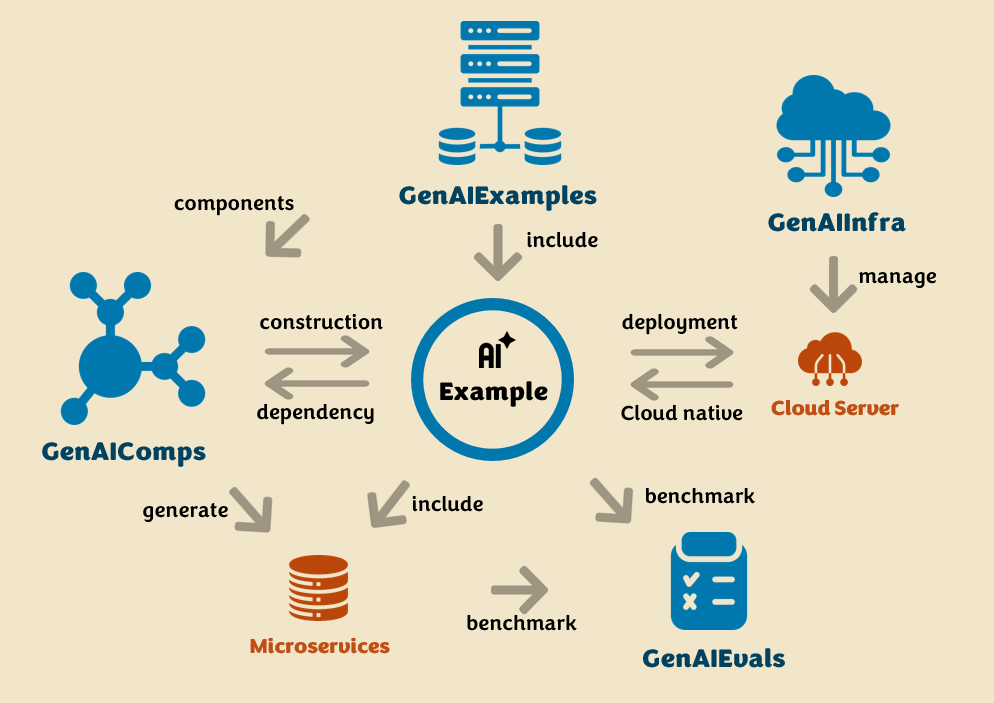
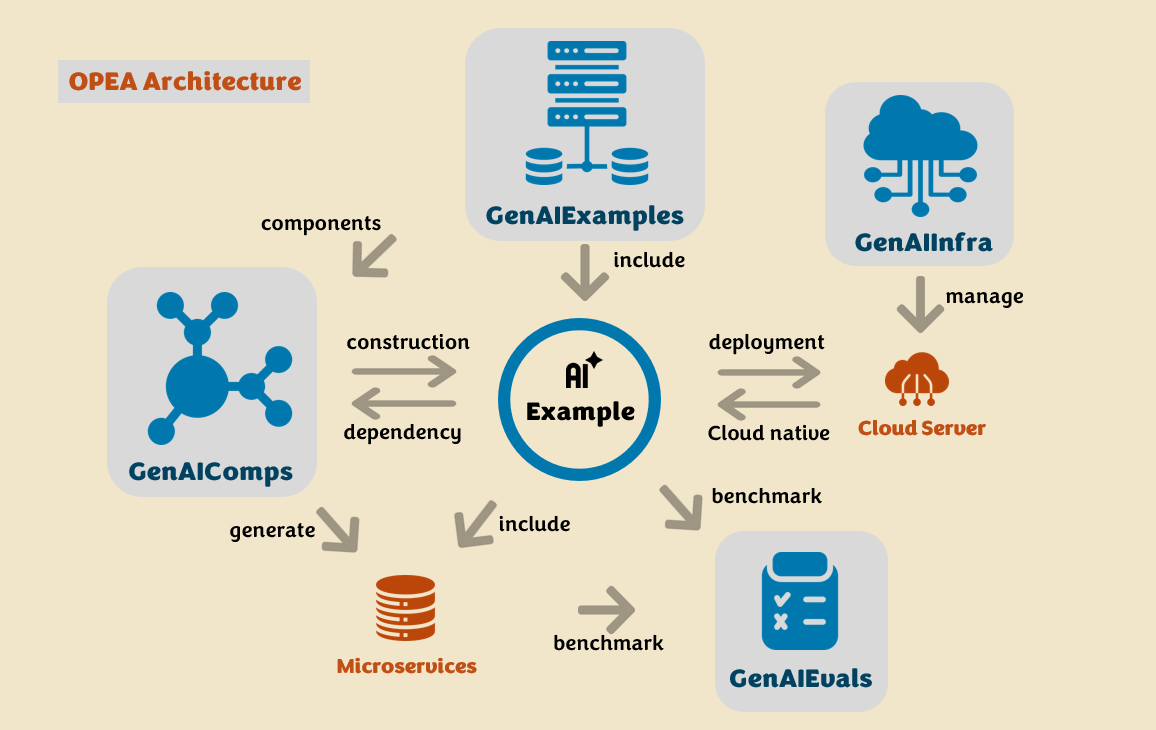
update architecture img

diff --git a/README.md b/README.md
@@ -23,7 +23,7 @@ GenAIEvals measures service performance metrics such as throughput, latency, and
 
 The Architecture of OPEA is as below.
 
-![architecture](./assets/2.png)
+![architecture](./assets/opea_architecture.png)
 
 ## Getting Started
 
